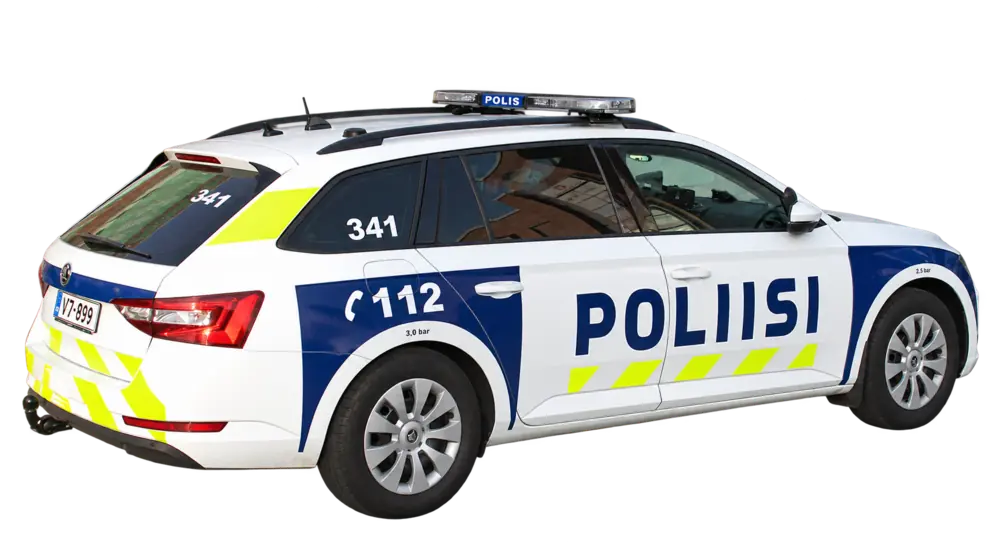
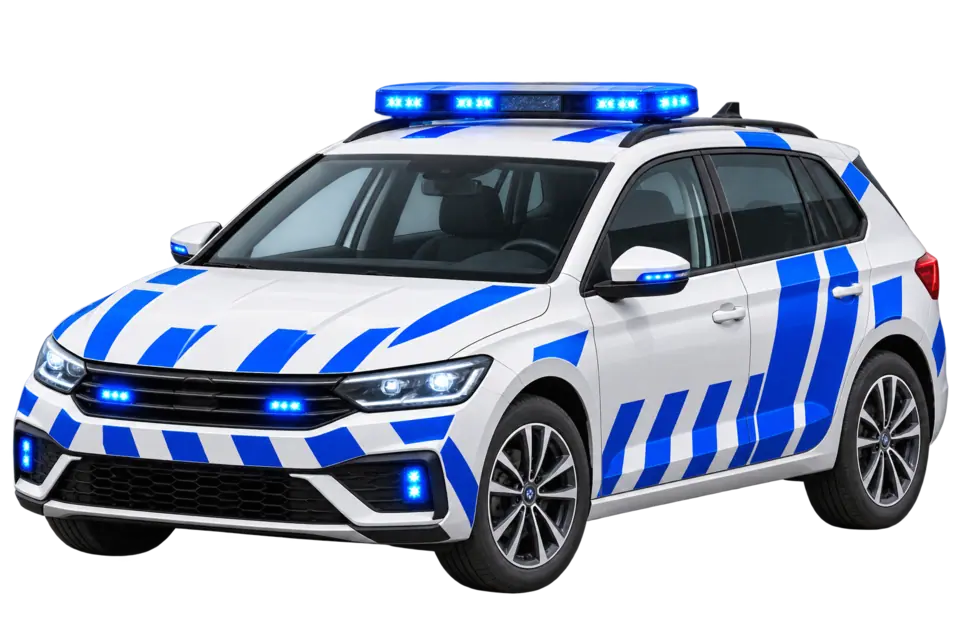
Replace vehicle artwork with complete original pack

diff --git a/frontend/src/game/vehicleMedia.js b/frontend/src/game/vehicleMedia.js
@@ -3,23 +3,22 @@ const VEHICLE_MEDIA = {
   ladder: 'ladder',
   'wildfire-unit': 'wildfire-unit',
   'hazmat-unit': 'hazmat-unit',
-  'command-unit': 'fire-engine',
-  tanker: 'wildfire-unit',
-  'heavy-rescue': 'fire-engine',
-  'aerial-platform': 'ladder',
+  'command-unit': 'command-unit',
+  tanker: 'tanker',
+  'heavy-rescue': 'heavy-rescue',
+  'aerial-platform': 'aerial-platform',
   ambulance: 'ambulance',
   vmer: 'vmer',
-  'mass-casualty-unit': 'ambulance',
-  'patient-transport': 'ambulance',
+  'mass-casualty-unit': 'mass-casualty-unit',
+  'patient-transport': 'patient-transport',
   'medical-motorcycle': 'medical-motorcycle',
   'medical-helicopter': 'medical-helicopter',
   patrol: 'patrol',
-  'canine-unit': 'police-van',
-  'riot-unit': 'tactical-unit',
+  'canine-unit': 'canine-unit',
+  'riot-unit': 'riot-unit',
   'traffic-unit': 'traffic-unit',
-  'prisoner-van': 'police-van',
+  'prisoner-van': 'prisoner-van',
   'tactical-unit': 'tactical-unit',
 };
 
 export const vehicleImage = vehicleType => `${process.env.PUBLIC_URL}/assets/vehicles/${VEHICLE_MEDIA[vehicleType] || 'patrol'}.webp`;
-

diff --git a/frontend/src/game/Management.jsx b/frontend/src/game/Management.jsx
@@ -9,9 +9,9 @@ import { vehicleImage } from './vehicleMedia';
 const VehicleArt = ({ service, vehicleType, name }) => {
   const [failed, setFailed] = useState(false);
   const label = name || (service === 'fire' ? 'Viatura dos bombeiros' : service === 'medical' ? 'Viatura médica' : 'Viatura da polícia');
-  return <div className={`vehicle-art vehicle-photo ${service}`} role="img" aria-label={`${label}, fotografia recortada`}>
+  return <div className={`vehicle-art vehicle-photo ${service}`} role="img" aria-label={`${label}, imagem recortada`}>
     {!failed ? <img src={vehicleImage(vehicleType)} alt="" loading="lazy" decoding="async" draggable="false" onError={() => setFailed(true)} /> : <ServiceIcon service={service} size={56} color={SERVICE[service].color} />}
-    <span>FOTOGRAFIA REAL</span>
+    <span>ARTE ORIGINAL</span>
   </div>;
 };
 
